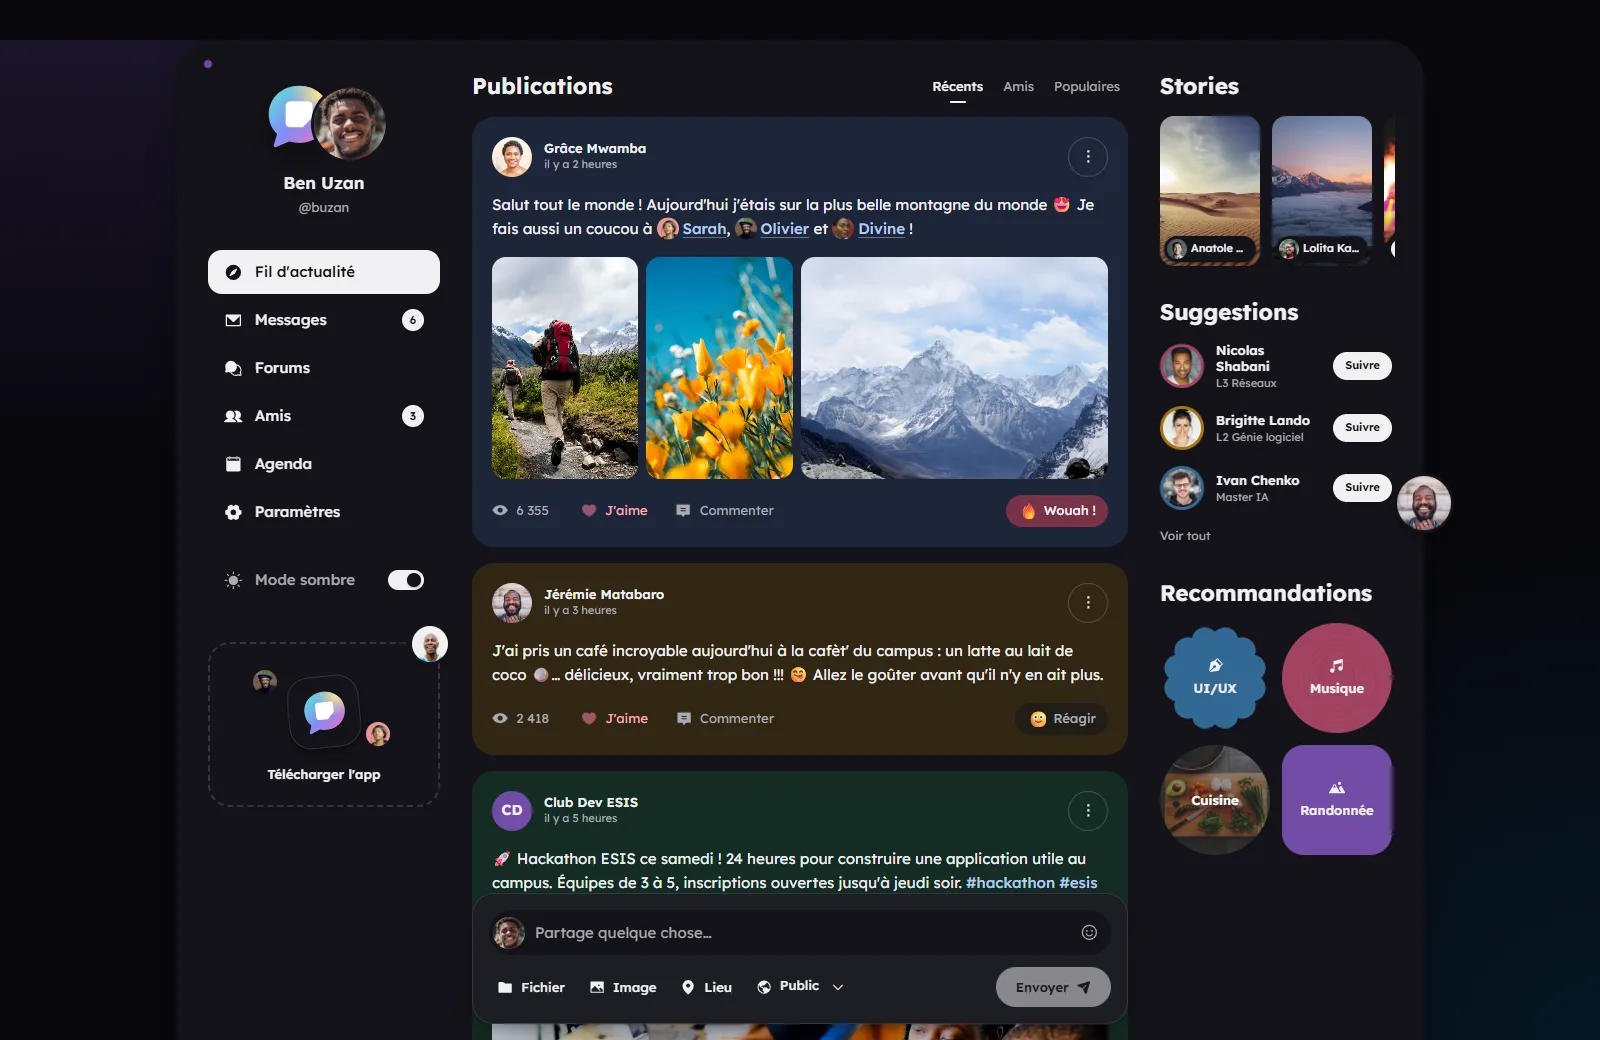
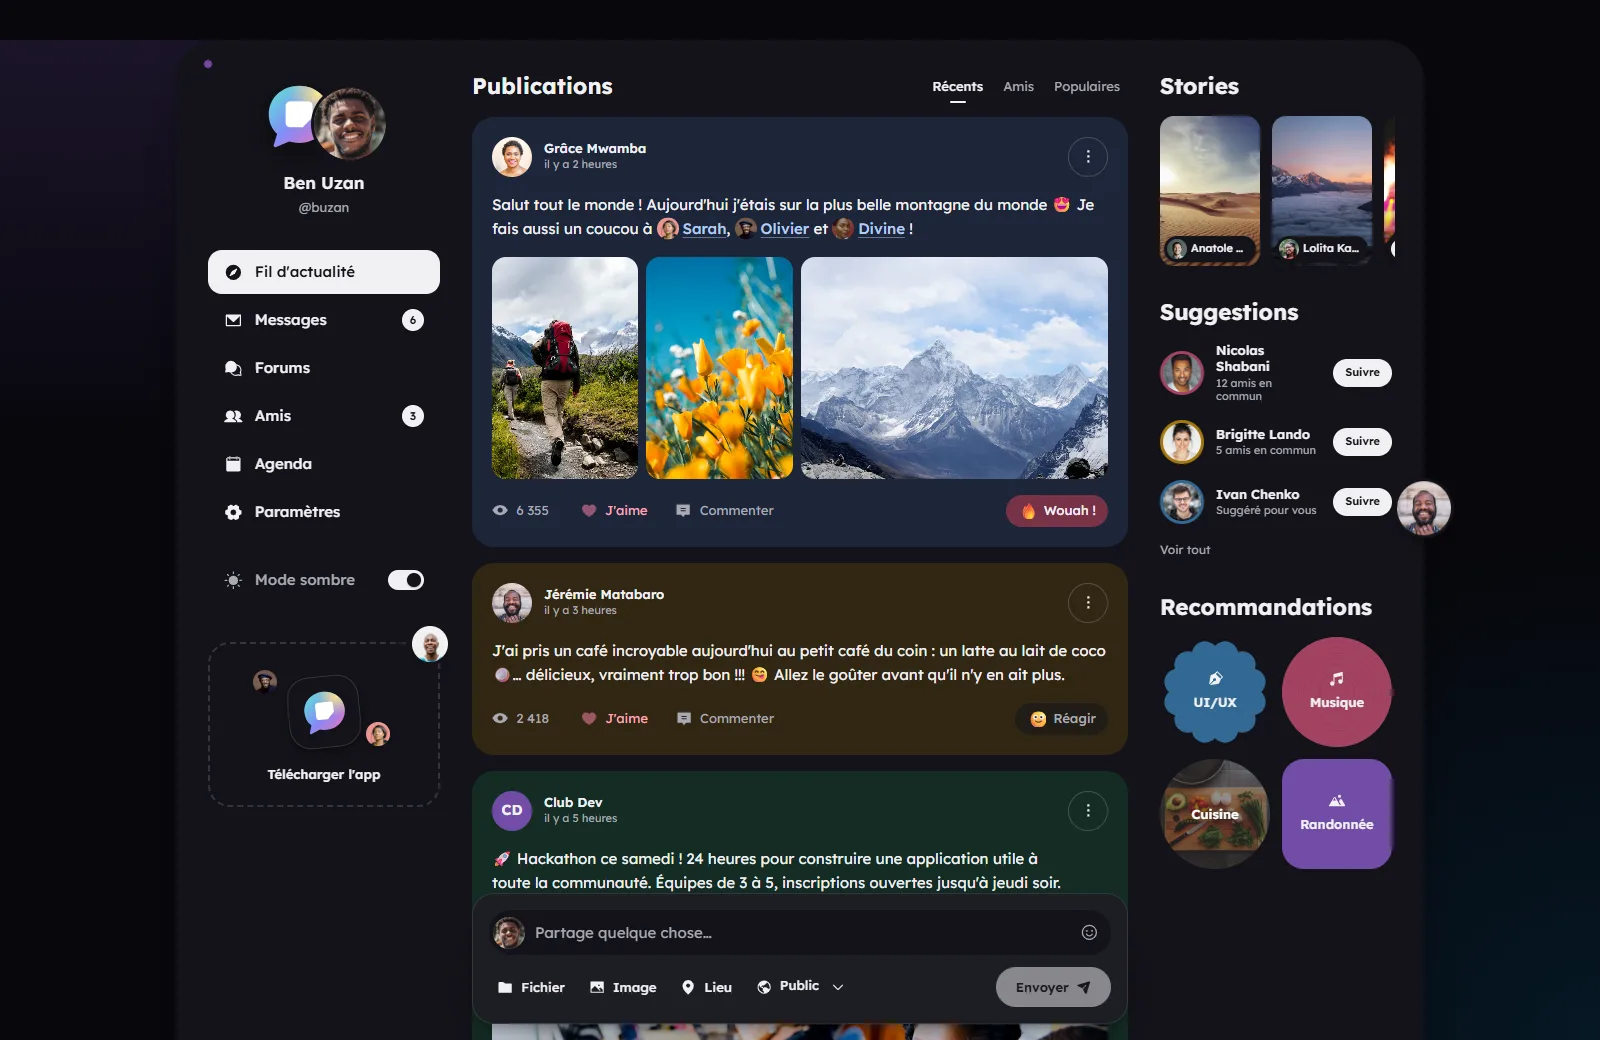
docs: présente Post it comme un réseau social open source
- README : nouvelle accroche, présentation et résumé anglais sans référence à l'ESIS
- CREDITS et package.json (nom post-it) mis à jour
- captures d'écran régénérées avec le nouveau contenu

diff --git a/README.md b/README.md
@@ -2,8 +2,8 @@
 
 # Post it
 
-**Le réseau social étudiant de l'ESIS** — refonte 2026 d'un projet étudiant de 2022,
-vitrine HTML/CSS moderne, sans framework ni étape de build.
+**Une interface de réseau social open source** — vitrine HTML/CSS moderne,
+sans framework ni étape de build.
 
 [![CI](https://github.com/Balick/esiss-social-web-site/actions/workflows/ci.yml/badge.svg)](https://github.com/Balick/esiss-social-web-site/actions/workflows/ci.yml)
 [![Licence MIT](https://img.shields.io/badge/licence-MIT-blue)](LICENSE)
@@ -22,11 +22,11 @@ vitrine HTML/CSS moderne, sans framework ni étape de build.
   <img src="docs/screenshot-light.webp" alt="Interface de Post it : menu latéral, fil d'actualité avec publications colorées, stories, suggestions et recommandations">
 </picture>
 
-Né en 2022 comme projet étudiant « pour le fun » à l'ESIS (École Supérieure d'Informatique Salama,
-Lubumbashi, RDC), **Post it** a été entièrement repensé en 2026 pour montrer tout ce que le HTML et
-le CSS savent faire seuls aujourd'hui. Pas de React, pas de bundler, pas de dépendance à
-l'exécution : un fichier `index.html`, des feuilles de style et quelques lignes de JavaScript
-facultatives.
+**Post it** est l'interface d'un réseau social — fil d'actualité, stories, réactions, suggestions —
+pensée pour montrer tout ce que le HTML et le CSS savent faire seuls aujourd'hui. Pas de React, pas
+de bundler, pas de dépendance à l'exécution : un fichier `index.html`, des feuilles de style et
+quelques lignes de JavaScript facultatives. Le projet est ouvert à tous : servez-vous-en comme base,
+comme terrain d'apprentissage ou comme référence.
 
 > [!NOTE]
 > La [démo en ligne](https://balick.github.io/esiss-social-web-site/) est active dès que GitHub
@@ -125,9 +125,9 @@ fonctionnel.
 
 ## Contribuer
 
-Les contributions sont les bienvenues, en particulier celles des étudiant·e·s de l'ESIS ! Lisez le
-[guide de contribution](CONTRIBUTING.md) (conventions, recettes, checklist) et le
-[code de conduite](CODE_OF_CONDUCT.md) avant d'ouvrir une pull request.
+Les contributions sont les bienvenues, quel que soit votre niveau ! Lisez le
+[guide de contribution](CONTRIBUTING.md) (conventions, recettes, checklist) avant d'ouvrir une pull
+request.
 
 ## Crédits
 
@@ -144,9 +144,8 @@ photos, icônes et polices restent sous leur propre licence (voir [CREDITS.md](C
 
 ### English summary
 
-**Post it** is a student social network mock-up for ESIS (Lubumbashi, DR Congo), first built in
-2022 and fully redesigned in 2026 as a **modern HTML/CSS showcase**: no framework, no build step,
-no runtime dependency. It features a feed filterable without JavaScript (`:has()`), popovers with
+**Post it** is an open-source social network interface built as a **modern HTML/CSS showcase**:
+no framework, no build step, no runtime dependency. It features a feed filterable without JavaScript (`:has()`), popovers with
 CSS anchor positioning, cascade layers, OKLCH colors with `light-dark()`, container queries and a
 pure-CSS poll. Open `index.html` in any evergreen browser, or run `npx serve .`. Contributions are
 welcome — see [CONTRIBUTING.md](CONTRIBUTING.md) (in French). Code licensed under MIT.

diff --git a/CREDITS.md b/CREDITS.md
@@ -53,6 +53,6 @@ sous [licence MIT](assets/icons/LICENSE-phosphor.txt).
 
 ## Design
 
-Mise en page inspirée d'un concept de tableau de bord social publié sur Dribbble, adaptée au
-contexte étudiant et entièrement réécrite à la main (HTML et CSS, sans framework). Le logo
+Mise en page inspirée d'un concept de tableau de bord social publié sur Dribbble, adaptée et
+entièrement réécrite à la main (HTML et CSS, sans framework). Le logo
 « Post it » et les illustrations CSS sont originaux.
